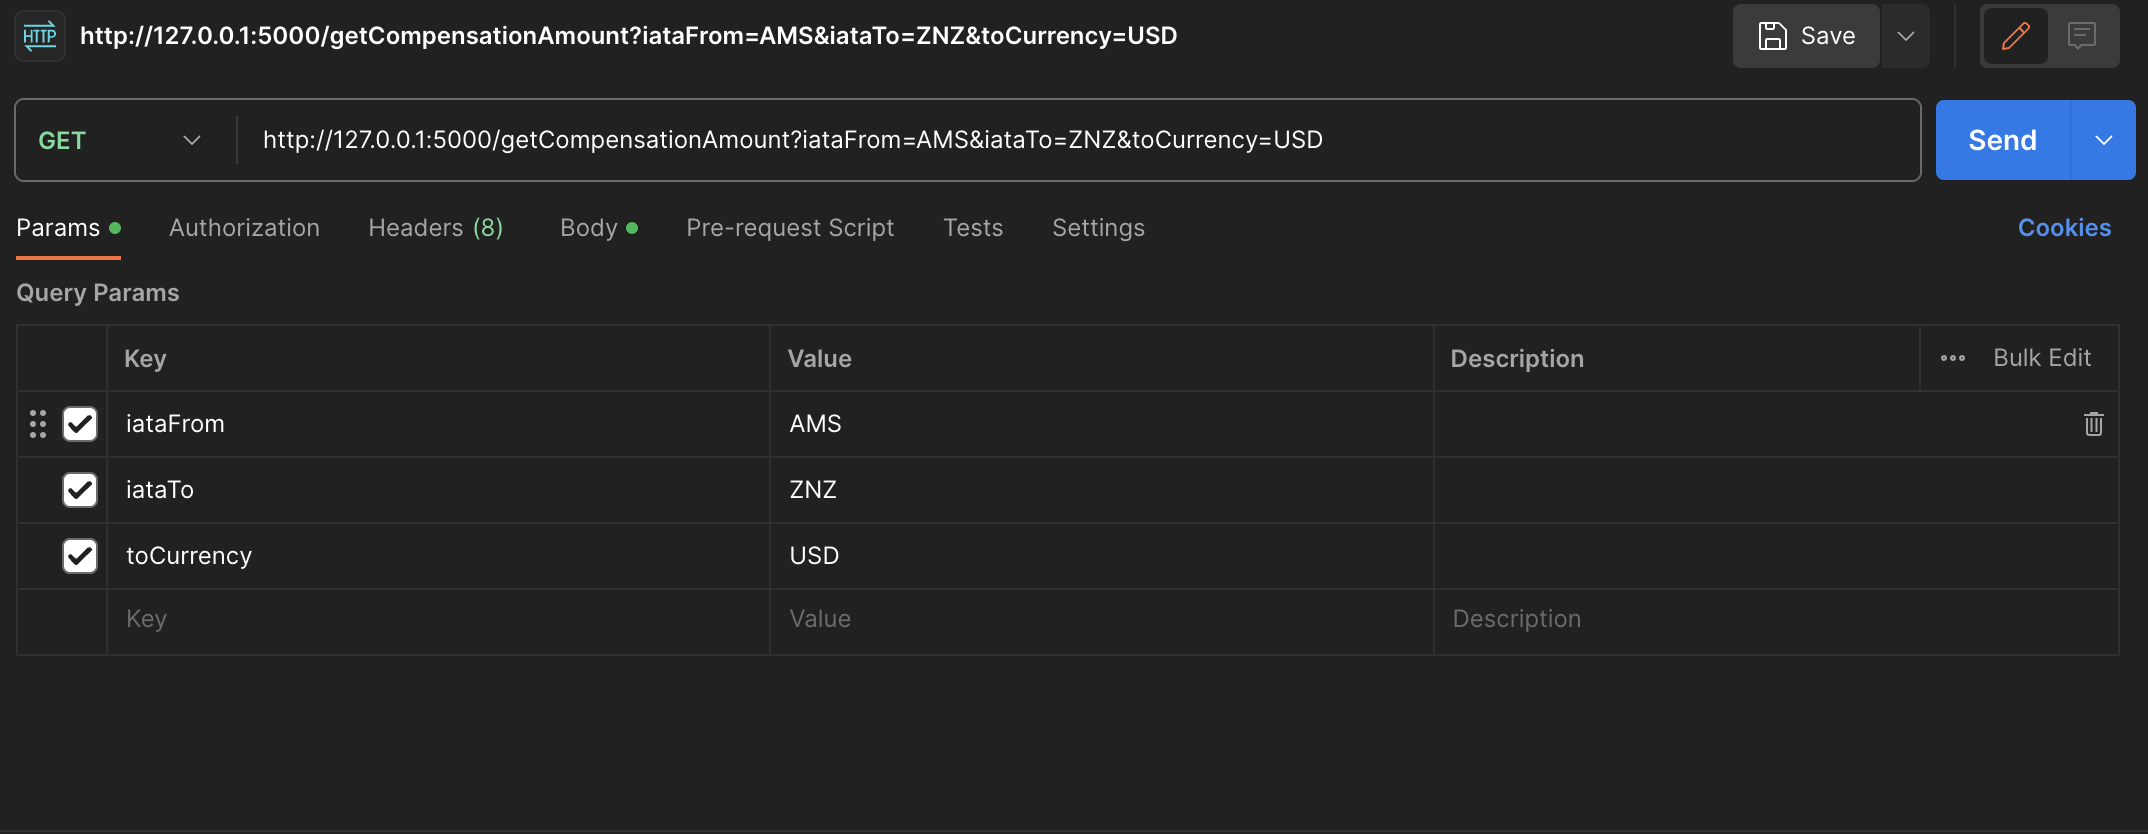
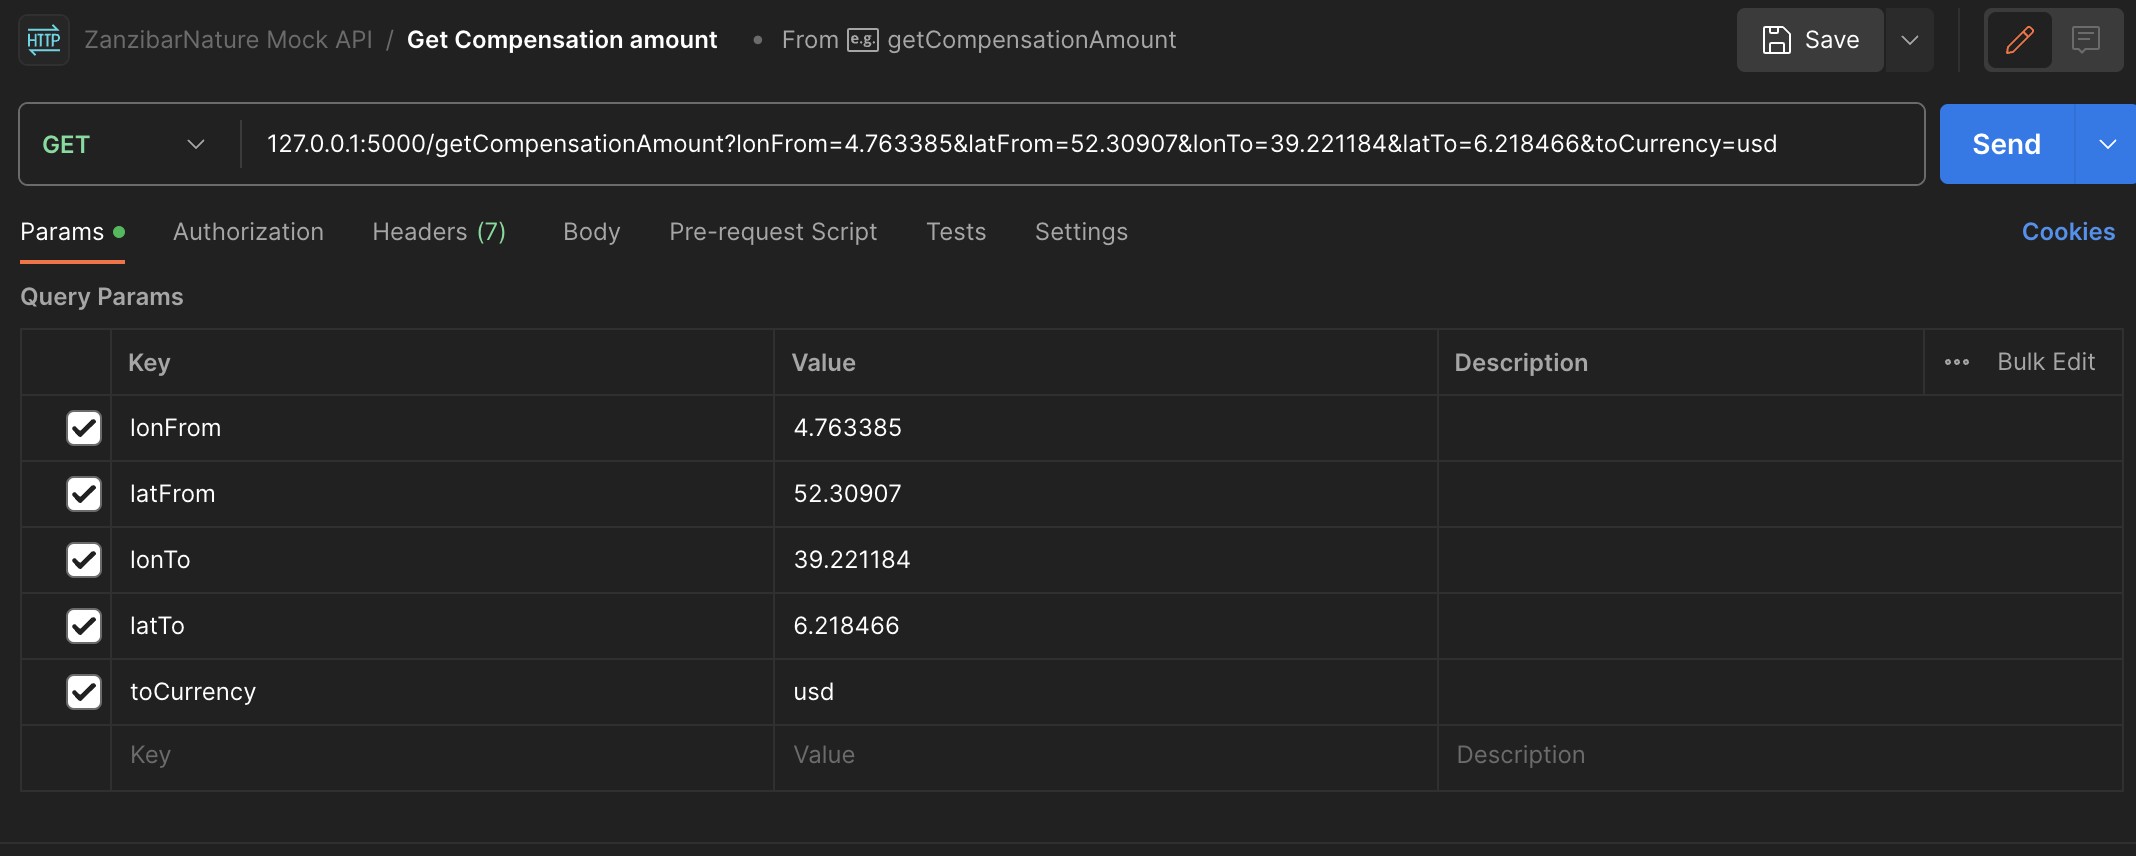
Changed GetDistance

diff --git a/app/service/DistanceService.py b/app/service/DistanceService.py
@@ -1,37 +1,43 @@
 from requests import Request
-import requests
-import os
-import json
-import re
+from geopy.distance import geodesic
 
 class DistanceService:
     def __init__(self):
         pass
         
-    def GetDistance(self, iataFrom, iataTo):
-        if (os.getenv("DEV_MODE") == "false"):
-            route = json.dumps([{"t": iataFrom}, {"t": iataTo}])
-                        
-            self.patternIata(iataFrom)
-            self.patternIata(iataTo)
-            
-            # Maar 100 requests per maand :(, bij devmode gebruikt hij de example response
-            url = "https://distanceto.p.rapidapi.com/get?route=" + route
-            headers = {
-                'x-rapidapi-key': os.getenv("RAPID_API_KEY"),
-                'x-rapidapi-host': "distanceto.p.rapidapi.com"
-            }
-            response = requests.request("GET", url, headers=headers)
-            flightData = response.json()
-        else:
-            flightData = json.load(open('exampleflight.json'))
+    # GetDistance kan ook ook zonder externe api door zelf de coordinaten op te slaan in een database
+    # en dan de coordinaten te gebruiken om de afstand te berekenen met geopy
+    
+    def GetDistance(self, lonFrom, latFrom, lonTo, latTo):
+        fromPlace = (lonFrom, latFrom)
+        toPlace = (lonTo, latTo)
+        
+        return round(geodesic(fromPlace, toPlace).km)
+          
+    
+    # def patternIata(self, iata):
+    #     patternIata = r'^[a-zA-Z]+$'
+    #     if(not re.match(patternIata, str(iata))):
+    #         raise Exception("Invalid input")
+    #     return True
 
-        distance = round(flightData["steps"][0]["distance"]["flight"][0]["distance"])
-        return distance
-    
-    def patternIata(self, iata):
-        patternIata = r'^[a-zA-Z]+$'
-        if(not re.match(patternIata, str(iata))):
-            raise Exception("Invalid input")
-        return True
-    
+    # def GetDistance(self, iataFrom, iataTo):
+    #     if (os.getenv("DEV_MODE") == "false"):
+    #         route = json.dumps([{"t": iataFrom}, {"t": iataTo}])
+                        
+    #         self.patternIata(iataFrom)
+    #         self.patternIata(iataTo)
+            
+    #         # Maar 100 requests per maand :(, bij devmode gebruikt hij de example response
+    #         url = "https://distanceto.p.rapidapi.com/get?route=" + route
+    #         headers = {
+    #             'x-rapidapi-key': os.getenv("RAPID_API_KEY"),
+    #             'x-rapidapi-host': "distanceto.p.rapidapi.com"
+    #         }
+    #         response = requests.request("GET", url, headers=headers)
+    #         flightData = response.json()
+    #     else:
+    #         flightData = json.load(open('exampleflight.json'))
+
+    #     distance = round(flightData["steps"][0]["distance"]["flight"][0]["distance"])
+    #     return distance

diff --git a/app/tests/unit/test_DistanceService.py b/app/tests/unit/test_DistanceService.py
@@ -2,19 +2,19 @@ import pytest
 
 from service.DistanceService import DistanceService
 
-def test_patternIata():
-    service = DistanceService()
+# def test_patternIata():
+#     service = DistanceService()
 
-    # Test case 1: Valid input
-    assert service.patternIata("JFK") == True
+#     # Test case 1: Valid input
+#     assert service.patternIata("JFK") == True
 
-    # Test case 2: Invalid input
-    with pytest.raises(Exception):
-        service.patternIata("123")
+#     # Test case 2: Invalid input
+#     with pytest.raises(Exception):
+#         service.patternIata("123")
 
-    # Test case 3: Invalid input with special characters
-    with pytest.raises(Exception):
-        service.patternIata("LHR!")
+#     # Test case 3: Invalid input with special characters
+#     with pytest.raises(Exception):
+#         service.patternIata("LHR!")
 
 if __name__ == "__main__":
     pytest.main()

diff --git a/app/app.py b/app/app.py
@@ -14,7 +14,8 @@ def GetCompensationAmount():
     compensationService = CompensationService()
 
     args = request.args
-    distance = distanceService.GetDistance( args.get("iataFrom").upper(), args.get("iataTo").upper())
+    distance = distanceService.GetDistance( args.get("lonFrom"), args.get("latFrom").upper(), 
+                                            args.get("lonTo"), args.get(""))
     
     return jsonify(compensationService.CalculateCompensation(distance, args.get("toCurrency").upper()))
 

diff --git a/README.md b/README.md
@@ -7,18 +7,15 @@ Local Development
 1. In the root directory create a venv with the command - python3 -m venv .venv  
 2. In vscode switch the interperter to venv
 3. Run the command - source .venv/bin/activate
-2. Run the command - pip3 install -r requirements.txt
-3. Rename the .env.example to .env
-4. Fill in the rapid api key in the .env file. (This is not needed in dev_mode, it will use the exampleflight.json instead)
+4. Run the command - pip3 install -r requirements.txt
 5. Run the command - flask run
 
 Endpoint: http://127.0.0.1:5000/getCompensationAmount
 
 Docker
 1. Rename docker-compose.yml.example
-2. Fill in the rapid-api key in the docker-compose file
-3. Run - docker-compose build 
-4. Run - docker-compose up -d
+2. Run - docker-compose build   
+3. Run - docker-compose up -d
 
 Endpoint: localhost/getCompensationAmount
 
@@ -29,3 +26,4 @@ Resources:
 List of currencies: https://fxratesapi.com/docs/currency-list 
 
 List of IATA codes: https://www.nationsonline.org/oneworld/IATA_Codes/airport_code_list.htm
+                    https://github.com/jbrooksuk/JSON-Airports/blob/master/airports.json
